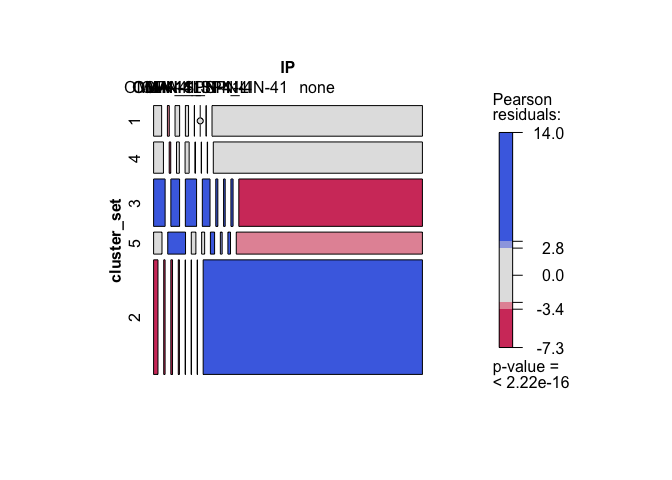
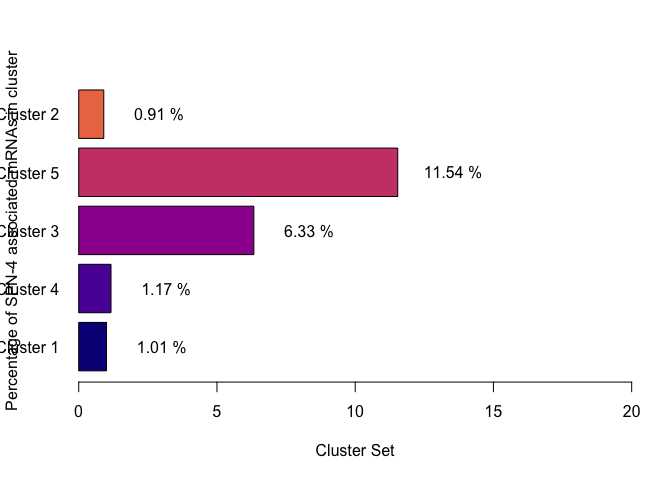
reduce file sizes

diff --git a/04_Tintori_et_al_Comparison_Fig_2_S2/02_scripts/250717_Parsing_scRNAseq_Tintori.md b/04_Tintori_et_al_Comparison_Fig_2_S2/02_scripts/250717_Parsing_scRNAseq_Tintori.md
@@ -16,26 +16,26 @@
     - [Import Wormbase identifiers](#import-wormbase-identifiers)
     - [Merge the tintori data with the Wormbase Gene
       identifiers](#merge-the-tintori-data-with-the-wormbase-gene-identifiers)
-  - [Heatmaps](#heatmaps)
     - [Import the prefered cell order](#import-the-prefered-cell-order)
+  - [Heatmaps](#heatmaps)
     - [Re-organize datasets by preferred cell type
       order](#re-organize-datasets-by-preferred-cell-type-order)
       - [Optimize for preferred heatmap type (not included in
         paper)](#optimize-for-preferred-heatmap-type-not-included-in-paper)
-  - [SAVE CLUSTER LISTS - PLOT LINEPLOTS BY CLUSTER
-    LIST](#save-cluster-lists---plot-lineplots-by-cluster-list)
-- [Save theis plot to annotate the
-  heatmap:](#save-theis-plot-to-annotate-the-heatmap)
-  - [import the gene lists of SPN-4, OMA-1, and LIN-41
-    targets](#import-the-gene-lists-of-spn-4-oma-1-and-lin-41-targets)
+    - [Split genes into clusters based on
+      heatmap](#split-genes-into-clusters-based-on-heatmap)
+    - [Save lineplot split by
+      clusters](#save-lineplot-split-by-clusters)
+    - [import the gene lists of SPN-4, OMA-1, and LIN-41
+      targets](#import-the-gene-lists-of-spn-4-oma-1-and-lin-41-targets)
     - [Make an annotated heatmap](#make-an-annotated-heatmap)
     - [Save the heatmap](#save-the-heatmap)
-    - [Make mosaicplots split by RNA
-      cohort](#make-mosaicplots-split-by-rna-cohort)
-      - [Save the mosaic plot](#save-the-mosaic-plot)
-    - [Lineplots of abundance in the Tintori dataset, split out by RNA
-      cohort](#lineplots-of-abundance-in-the-tintori-dataset-split-out-by-rna-cohort)
-      - [Save the lineplot](#save-the-lineplot)
+  - [Mosaic plots](#mosaic-plots)
+    - [Save the barplot (% SPN-4 associated mRNAs in each
+      clusteer)](#save-the-barplot--spn-4-associated-mrnas-in-each-clusteer)
+    - [Save the mosaic plot](#save-the-mosaic-plot)
+  - [Lineplots, split by cluster set](#lineplots-split-by-cluster-set)
+    - [Save the lineplot](#save-the-lineplot)
   - [Session info](#session-info)
 
 # Transcriptional dynamics of SPN-4 associated mRNAs through early embryonic development
@@ -45,12 +45,12 @@ assesses expression patterns through the first five cell divisions in
 *C. elegans* (Tintori et al., 2016). The goal of this study is to test
 the hypothesis that SPN-4 may be involved in clearing maternal mRNAs out
 of early embryos. If this is the case, we would expect to see that SPN-4
-associated mRNAs are enriched in clusters of transcripts that undergo
-decline in early embryos.
+associated mRNAs are enriched in clusters of maternal transcripts that
+undergo decline in early embryos.
 
 Reference:
 
-[Tintori SC, Osborne Nishimura E, Golden P, Lieb JD, Goldstein B. A
+Tintori SC, Osborne Nishimura E, Golden P, Lieb JD, Goldstein B. [A
 Transcriptional Lineage of the Early C. elegans
 Embryo](https://pubmed.ncbi.nlm.nih.gov/27554860). Dev Cell. 2016 Aug
 22;38(4):430-44. doi: 10.1016/j.devcel.2016.07.025. PMID: 27554860;
@@ -224,18 +224,30 @@ dim(tintori_nest_by_transcript)
 #head(tintori_nest_by_transcript)
 ```
 
-------------------------------------------------------------------------
-
-## Heatmaps
-
-    ## [1] 14776     5
-
-#### Import the prefered cell order
+### Import the prefered cell order
 
 This is a file I just typed up with the blastomeres listed by
 developmental time and anterior-to-posterior orientation.
 
+------------------------------------------------------------------------
+
+## Heatmaps
+
+Preprocessing the data for heatmaps by making the pre-processed heatmap
+matrix.
+
+- Filter for total RPKM \> 5
+- Filter for variance \> 10
+- Select only the most relevant columns
+
+<!-- -->
+
+    ## [1] 14776     5
+
 ### Re-organize datasets by preferred cell type order
+
+Merge pre-processed, heatmap-ready matrix with the preferred cell order
+information.
 
     ##  [1] "AB"    "ABa"   "ABal"  "ABalx" "ABar"  "ABarx" "ABp"   "ABpl"  "ABplx"
     ## [10] "ABpr"  "ABprx" "C"     "Cx1"   "Cx2"   "D"     "E"     "EMS"   "Ea"   
@@ -250,9 +262,14 @@ I tested the following settings for heatmaps:
 - “ward.D”, “ward.D2”, “single”, “complete”, “average” (= UPGMA),
   “mcquitty” (= WPGMA), “median” (= WPGMC) or “centroid” (= UPGMC).
 
-Included: Cannaberra complete heatmap
+Processing:
+
+- Use Canaberra complete to draw a heatmap and to split it into clusters
+- Cut the heatmap into 5 clusters
+- Annotate the cluster names back onto the original heatmap
 
 ``` r
+# Canabarra, complete looks best
 # Euclidean also looks good
 # "ward.D", "ward.D2", "single", "complete", "average" (= UPGMA), "mcquitty" (= WPGMA), "median" (= WPGMC) or "centroid" (= UPGMC).
 #wardD - looks good
@@ -292,9 +309,7 @@ rownames(ann) = rownames(clustered_changing_wide_mat)
 vcolors = plasma(7)[1:5]
 #vcolors[1]
 
-
 my_colour = list(cluster_set = c( "1" = vcolors[1], "2" = vcolors[5], "3" = vcolors[3], "4" = vcolors[2], "5" = vcolors[4]))
-
 
 # Make an annotated heatmap using canaberra + complete:
 #set.seed(2025)
@@ -318,7 +333,7 @@ Save the heatmap to a file:
 
 ------------------------------------------------------------------------
 
-## SAVE CLUSTER LISTS - PLOT LINEPLOTS BY CLUSTER LIST
+### Split genes into clusters based on heatmap
 
 Take the clusters generated in heatmap_caco5_ann heatmap and split them
 into clusters of gene lists.
@@ -333,7 +348,9 @@ This will be a supplemental figure
 
     ## [1]  5 28
 
-# Save theis plot to annotate the heatmap:
+![](250717_Parsing_scRNAseq_Tintori_files/figure-gfm/clusterlists-1.png)<!-- -->
+
+### Save lineplot split by clusters
 
 Supplemental Figure
 
@@ -352,13 +369,17 @@ dev.off()
     ## quartz_off_screen 
     ##                 2
 
-## import the gene lists of SPN-4, OMA-1, and LIN-41 targets
+### import the gene lists of SPN-4, OMA-1, and LIN-41 targets
 
 The next goal will be to assess which clusters contain SPN-4, OMA-1, and
 LIN-41 associated mRNAs and to what degree. The predition is that if
 SPN-4 is associated with mRNA decay, then the clusters that are driven
 by decay of maternal mRNAs will have a higher propensity of SPN-4
 associated mRNAs.
+
+These lists of sets are from [a previous analysis within this same
+github
+repository](https://github.com/erinosb/SPN4_maternal_mRNA/tree/main/02_SPN4_LIN41_OMA1_Comparison_Fig_1_S1/04_output_data)
 
 ``` r
 setwd(mywd)
@@ -457,7 +478,7 @@ colnames(ann2) <- c("cluster_set", "IP")
 ann3 <- ann2
 ```
 
-#### Make an annotated heatmap
+### Make an annotated heatmap
 
 This is the heatmap that will be used in the paper as a supplemental
 figure. Tintori et al data plotted as a heatmap, with cell-types sorted
@@ -467,7 +488,7 @@ associated mRNAs.
 
 ![](250717_Parsing_scRNAseq_Tintori_files/figure-gfm/heatmap3-1.png)<!-- -->
 
-#### Save the heatmap
+### Save the heatmap
 
 This will be used as a Supplemental Figure.
 
@@ -495,7 +516,9 @@ things manually.
 #dev.off()
 ```
 
-### Make mosaicplots split by RNA cohort
+## Mosaic plots
+
+Make mosaicplots split by RNA cohort
 
 ``` r
 ann3$cluster_set <- factor(ann3$cluster_set, levels = c(1, 4, 3, 5, 2))
@@ -515,13 +538,6 @@ mosaicplot1 <- mosaic(ann3tabs, gp = shading_max,
 ![](250717_Parsing_scRNAseq_Tintori_files/figure-gfm/lineplots4-1.png)<!-- -->
 
 ``` r
-mosaic(ann3tabs, gp = shading_max, 
-       split_horizontal = TRUE)
-```
-
-![](250717_Parsing_scRNAseq_Tintori_files/figure-gfm/lineplots4-2.png)<!-- -->
-
-``` r
 # Create a barplot tabulating the % of SPN-4 associated genes within each cluster
 tabs_dataframe <- as.data.frame(mosaicplot1)
 
@@ -539,17 +555,20 @@ vcolors = plasma(7)[1:5]
 #vcolors[1]
 
 # Barplot 
-bp1 <- barplot(SPN4_Percentage_plot$SPN_percent, ylim = c(0, 20),
+bp1 <- barplot(SPN4_Percentage_plot$SPN_percent, xlim = c(0, 20),
         names.arg = c("Cluster 1", "Cluster 4", "Cluster 3", "Cluster 5", "Cluster 2"),
         xlab = "Cluster Set", 
         ylab = "Percentage of SPN-4 associated mRNAs in cluster", 
-        col = vcolors)
+        col = vcolors, 
+        horiz = TRUE,
+        las = 1)
 # Add text
-text(x = bp1, y = SPN4_Percentage_plot$SPN_percent + 0.5, labels = textSPN)
+text(x = SPN4_Percentage_plot$SPN_percent + 2, y = bp1, labels = textSPN)
 ```
 
-![](250717_Parsing_scRNAseq_Tintori_files/figure-gfm/lineplots4-3.png)<!-- -->
-\#### Save the barplot (% SPN-4 associated mRNAs in each clusteer)
+![](250717_Parsing_scRNAseq_Tintori_files/figure-gfm/lineplots4-2.png)<!-- -->
+
+### Save the barplot (% SPN-4 associated mRNAs in each clusteer)
 
 This will be a Supplementary Figure
 
@@ -562,13 +581,15 @@ filename4 <- paste("03_output/", today, "_SPN4_percentage_barplot.pdf", sep = ""
 setwd(mywd)
 pdf(filename4, width = 5, height = 5)
 
-bp1 <- barplot(SPN4_Percentage_plot$SPN_percent, ylim = c(0, 20),
+bp1 <- barplot(SPN4_Percentage_plot$SPN_percent, xlim = c(0, 20),
         names.arg = c("Cluster 1", "Cluster 4", "Cluster 3", "Cluster 5", "Cluster 2"),
         xlab = "Cluster Set", 
         ylab = "Percentage of SPN-4 associated mRNAs in cluster", 
-        col = vcolors)
+        col = vcolors, 
+        horiz = TRUE,
+        las = 1)
 # Add text
-text(x = bp1, y = SPN4_Percentage_plot$SPN_percent + 0.5, labels = textSPN)
+text(x = SPN4_Percentage_plot$SPN_percent + 2, y = bp1, labels = textSPN)
 
 dev.off()
 ```
@@ -576,7 +597,7 @@ dev.off()
     ## quartz_off_screen 
     ##                 2
 
-#### Save the mosaic plot
+### Save the mosaic plot
 
 Supplemental Figure.
 
@@ -598,7 +619,10 @@ dev.off()
     ## quartz_off_screen 
     ##                 2
 
-### Lineplots of abundance in the Tintori dataset, split out by RNA cohort
+## Lineplots, split by cluster set
+
+Create lineplots of abundance in the Tintori dataset, split out by
+cluster or by RBP Association
 
 Supplemental Figure
 
@@ -645,7 +669,7 @@ lineplot_IP
 
 ![](250717_Parsing_scRNAseq_Tintori_files/figure-gfm/lineplots5-1.png)<!-- -->
 
-#### Save the lineplot
+### Save the lineplot
 
 ``` r
 # Save theis plot to annotate the heatmap:
